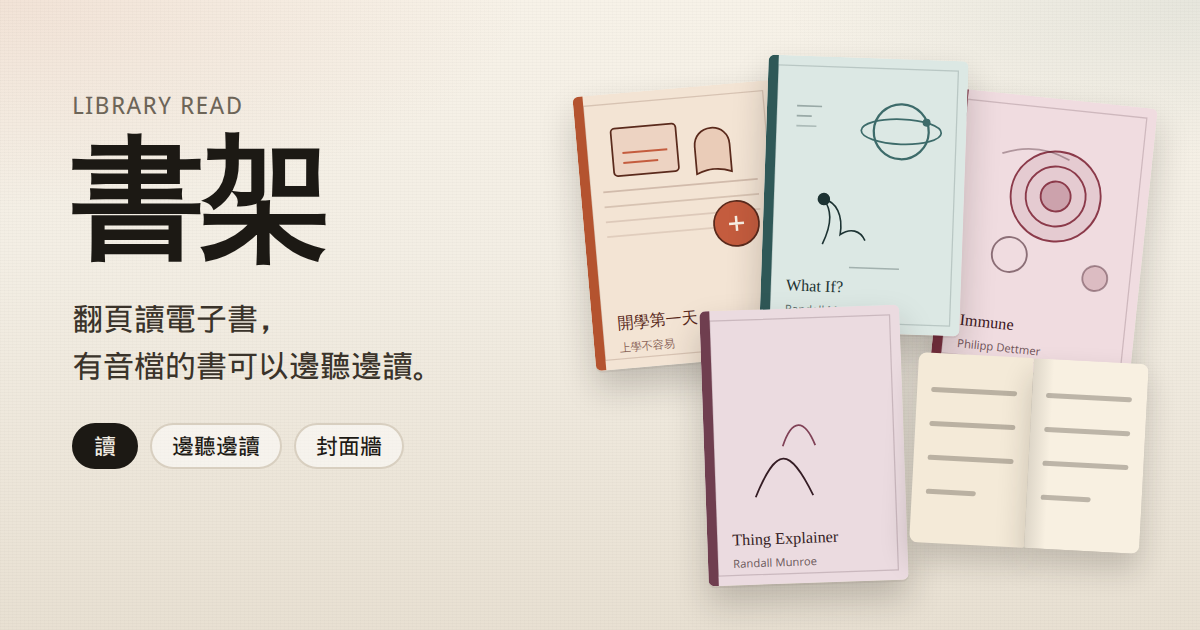
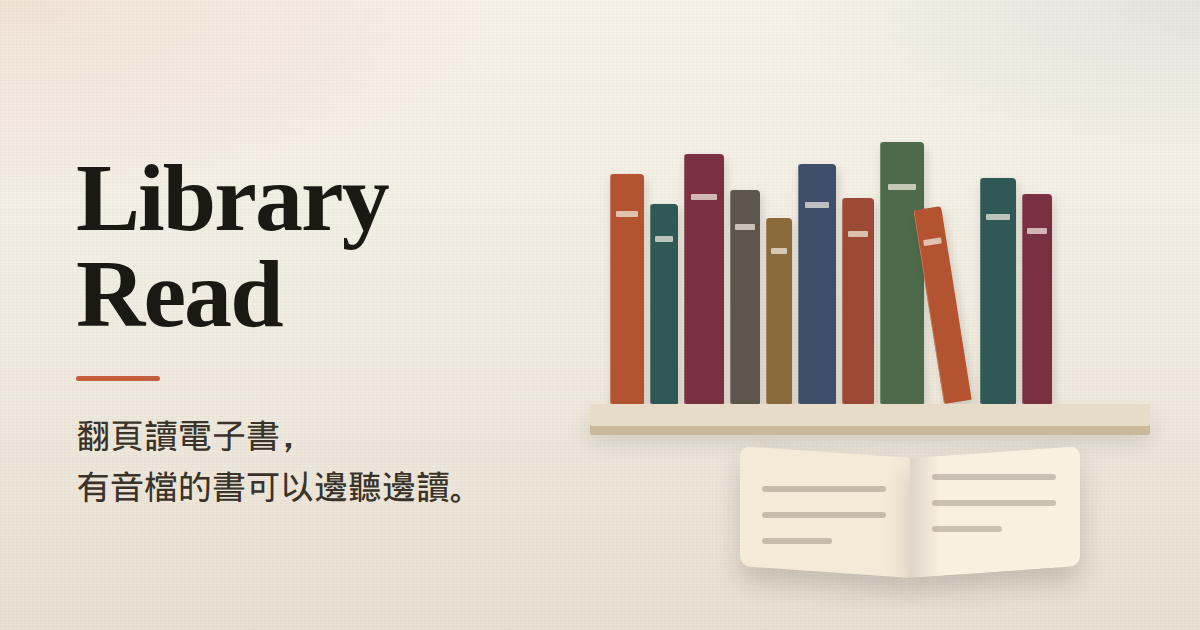
Generic share preview image: no book titles or covers (#3)
Abstract shelf + open-book silhouettes, site name and one zh-Hant line, same rice-paper
style, 1200×630. The generator imports only Playwright; the test fails if it pulls in
shelf/cover/library modules or embeds images. og:image:alt updated; shell cache v2 → v3.

diff --git a/docs/index.html b/docs/index.html
@@ -18,7 +18,7 @@
     <meta property="og:image:type" content="image/png" />
     <meta property="og:image:width" content="1200" />
     <meta property="og:image:height" content="630" />
-    <meta property="og:image:alt" content="Library Read 書架：封面牆與翻開的書" />
+    <meta property="og:image:alt" content="Library Read：書架上的書與一本翻開的書" />
     <meta name="twitter:card" content="summary_large_image" />
     <meta name="twitter:title" content="書架 · Library Read" />
     <meta name="twitter:description" content="翻頁讀電子書；有音檔的書可以邊聽邊讀。" />
@@ -28,9 +28,9 @@
     <meta name="apple-mobile-web-app-status-bar-style" content="default" />
     <meta name="apple-mobile-web-app-title" content="讀書" />
     <link rel="manifest" href="./manifest.webmanifest" />
-    <link rel="icon" href="./icon.svg?v=2" type="image/svg+xml" />
-    <link rel="apple-touch-icon" href="./apple-touch-icon.png?v=2" />
-    <link rel="stylesheet" href="./styles.css?v=2" />
+    <link rel="icon" href="./icon.svg?v=3" type="image/svg+xml" />
+    <link rel="apple-touch-icon" href="./apple-touch-icon.png?v=3" />
+    <link rel="stylesheet" href="./styles.css?v=3" />
     <title>書架 · Library Read</title>
   </head>
   <body class="shell-shelf">
@@ -144,6 +144,6 @@
 
     <audio id="audio" preload="metadata" playsinline></audio>
     <div id="toast" class="toast hidden" role="status" aria-live="polite"></div>
-    <script type="module" src="./app.js?v=2"></script>
+    <script type="module" src="./app.js?v=3"></script>
   </body>
 </html>

diff --git a/docs/app.js b/docs/app.js
@@ -8,7 +8,7 @@ import {
   saveTextProgress,
   textProgress,
   loadProgress,
-} from "./library.js?v=2";
+} from "./library.js?v=3";
 import {
   DRIVE_ERROR_KIND,
   DRIVE_UNAUTHORIZED_MESSAGE,
@@ -27,8 +27,8 @@ import {
   saveDriveSession,
   signInWithGoogle,
   signOutGoogle,
-} from "./drive.js?v=2";
-import { parseEpub, spineCfi, spineIndexFromCfi } from "./epub.js?v=2";
+} from "./drive.js?v=3";
+import { parseEpub, spineCfi, spineIndexFromCfi } from "./epub.js?v=3";
 import {
   ALIGNMENT_LABELS,
   alignmentKind,
@@ -38,8 +38,8 @@ import {
   offsetToAlign,
   saveOffset,
   textIndexForAudio,
-} from "./listen.js?v=2";
-import { Reader } from "./reader.js?v=2";
+} from "./listen.js?v=3";
+import { Reader } from "./reader.js?v=3";
 import {
   closeBook,
   findShelfBook,
@@ -47,8 +47,8 @@ import {
   setShelfBooks,
   setSpreadStatus,
   shelfSource,
-} from "./shelf.js?v=2";
-import { getCachedEbook, putCachedEbook } from "./store.js?v=2";
+} from "./shelf.js?v=3";
+import { getCachedEbook, putCachedEbook } from "./store.js?v=3";
 
 const APP_VERSION = new URL(import.meta.url).searchParams.get("v") || "";
 const LIBRARY_KEY = "libraryread.library.v1";
@@ -88,7 +88,7 @@ const DEMO_BOOK = {
   subtitle: null,
   author: "Library Read",
   chapters: [],
-  ebook: { id: "demo.epub", name: "demo.epub", url: "./sample/demo.epub?v=2" },
+  ebook: { id: "demo.epub", name: "demo.epub", url: "./sample/demo.epub?v=3" },
   demo: true,
 };
 

diff --git a/docs/sw.js b/docs/sw.js
@@ -1,5 +1,5 @@
 /* Shell-only cache. Audio is never cached; EPUB bytes live in IndexedDB, not here. */
-const CACHE = "library-read-shell-v2";
+const CACHE = "library-read-shell-v3";
 const DRIVE_MEDIA_PREFIX = "/drive-media/";
 const DRIVE_TOKEN_MESSAGE = "libraryread.drive-token";
 const DRIVE_UNAUTHORIZED_MESSAGE = "libraryread.drive-unauthorized";
@@ -13,23 +13,23 @@ self.addEventListener("message", (event) => {
 const ASSETS = [
   "./",
   "./index.html",
-  "./styles.css?v=2",
-  "./app.js?v=2",
-  "./library.js?v=2",
-  "./drive.js?v=2",
-  "./search.js?v=2",
-  "./epub.js?v=2",
-  "./catalog.js?v=2",
-  "./covers.js?v=2",
-  "./shelf.js?v=2",
-  "./content.js?v=2",
-  "./reader.js?v=2",
-  "./listen.js?v=2",
-  "./store.js?v=2",
+  "./styles.css?v=3",
+  "./app.js?v=3",
+  "./library.js?v=3",
+  "./drive.js?v=3",
+  "./search.js?v=3",
+  "./epub.js?v=3",
+  "./catalog.js?v=3",
+  "./covers.js?v=3",
+  "./shelf.js?v=3",
+  "./content.js?v=3",
+  "./reader.js?v=3",
+  "./listen.js?v=3",
+  "./store.js?v=3",
   "./manifest.webmanifest",
-  "./icon.svg?v=2",
-  "./apple-touch-icon.png?v=2",
-  "./sample/demo.epub?v=2",
+  "./icon.svg?v=3",
+  "./apple-touch-icon.png?v=3",
+  "./sample/demo.epub?v=3",
 ];
 
 self.addEventListener("install", (event) => {

diff --git a/docs/reader.js b/docs/reader.js
@@ -7,8 +7,8 @@
  * opacity only). Leaf faces come from a small pool of pre-laid-out clones per
  * chapter, so a turn never re-lays out the chapter while it animates.
  */
-import { renderChapter } from "./content.js?v=2";
-import { textChapterForSpine, textChapters } from "./listen.js?v=2";
+import { renderChapter } from "./content.js?v=3";
+import { textChapterForSpine, textChapters } from "./listen.js?v=3";
 
 export const FONT_STEPS = [0.95, 1.08, 1.22, 1.38];
 export const READER_PREFS_KEY = "libraryread.reader.v1";

diff --git a/docs/catalog.js b/docs/catalog.js
@@ -1,7 +1,7 @@
 /** Shelf helpers: series colours, chips, filter, cover-open motion. Safe to import from Node tests. */
 
-import { bookHasAudio, bookHasEbook } from "./library.js?v=2";
-import { filterBooks, shelfCountLabel, emptySearchMessage, trimQuery } from "./search.js?v=2";
+import { bookHasAudio, bookHasEbook } from "./library.js?v=3";
+import { filterBooks, shelfCountLabel, emptySearchMessage, trimQuery } from "./search.js?v=3";
 
 /**
  * Cover wall → book (same as Library Listen's openCoverBook):

diff --git a/docs/content.js b/docs/content.js
@@ -4,7 +4,7 @@
  * event handlers, forms, iframes and the book's own CSS never reach the page.
  * Zip images become blob: URLs (the caller revokes them).
  */
-import { mimeForPath, zipPath } from "./epub.js?v=2";
+import { mimeForPath, zipPath } from "./epub.js?v=3";
 
 export const ALLOWED_TAGS = new Set([
   "a", "abbr", "address", "article", "aside", "b", "bdi", "bdo", "blockquote", "br",

diff --git a/docs/listen.js b/docs/listen.js
@@ -4,7 +4,7 @@
  * by equal count, else proportionally. A per-book offset (set by the reader
  * with 對齊到這一章) shifts the whole mapping. Pure; safe for Node tests.
  */
-import { chapterMatchCore, spineIndexForChapter } from "./epub.js?v=2";
+import { chapterMatchCore, spineIndexForChapter } from "./epub.js?v=3";
 
 export const ALIGN_KEY = "libraryread.align.v1";
 

diff --git a/docs/shelf.js b/docs/shelf.js
@@ -15,9 +15,9 @@ import {
   seriesIdForBook,
   seriesMeta,
   shelfStatusLabel,
-} from "./catalog.js?v=2";
-import { coverSvg } from "./covers.js?v=2";
-import { trimQuery } from "./search.js?v=2";
+} from "./catalog.js?v=3";
+import { coverSvg } from "./covers.js?v=3";
+import { trimQuery } from "./search.js?v=3";
 
 const SERIES_KEY = "libraryread.shelfSeries";
 

diff --git a/docs/drive.js b/docs/drive.js
@@ -4,7 +4,7 @@
  * are public browser config (not secrets).
  */
 
-import { AUDIO_EXT, COVER_EXT, EPUB_EXT, SKIP_FOLDERS, extOf } from "./library.js?v=2";
+import { AUDIO_EXT, COVER_EXT, EPUB_EXT, SKIP_FOLDERS, extOf } from "./library.js?v=3";
 
 /** Public Web application OAuth Client ID. Not a secret. */
 export const GOOGLE_OAUTH_CLIENT_ID =

diff --git a/docs/covers.js b/docs/covers.js
@@ -1,6 +1,6 @@
 /** Original SVG/CSS covers and spine metrics. No external images. */
 
-import { hashString, seriesIdForBook, seriesMeta } from "./catalog.js?v=2";
+import { hashString, seriesIdForBook, seriesMeta } from "./catalog.js?v=3";
 
 export function escapeXml(value) {
   return String(value ?? "")

diff --git a/AGENTS.md b/AGENTS.md
@@ -48,7 +48,7 @@ The site **is** `docs/` (GitHub Pages: `main` `/docs`). Vanilla ES modules, no b
 | `docs/store.js` | IndexedDB cache of downloaded EPUBs |
 | `docs/library.js`, `docs/drive.js`, `docs/epub.js`, `docs/catalog.js`, `docs/covers.js`, `docs/search.js` | Ported from Library Listen (keys/names adapted) |
 | `docs/sw.js` | Shell-only cache + Drive media proxy |
-| `docs/og-image.png` | 1200×630 share preview referenced by the `og:` / `twitter:` tags in every HTML page (absolute `https://bigdaddy109.github.io/library-read/` URLs); regenerate with `node scripts/build-og-image.mjs`; not in the shell cache. `test/share-preview.test.mjs` guards it |
+| `docs/og-image.png` | Generic 1200×630 share preview (shelf/book silhouettes + site name, never real titles or covers, so new books never need a regenerate) referenced by the `og:` / `twitter:` tags in every HTML page (absolute `https://bigdaddy109.github.io/library-read/` URLs); regenerate with `node scripts/build-og-image.mjs`; not in the shell cache. `test/share-preview.test.mjs` guards it |
 | `docs/sample/demo.epub` | 翻頁試讀 demo shown before sign-in; regenerate with `node scripts/build-demo-epub.mjs` |
 | `test/library-fixture.mjs`, `test/fake-drive.mjs` | Multi-series fixture Library + fake GIS / Drive v3 shared by unit and e2e tests |
 
